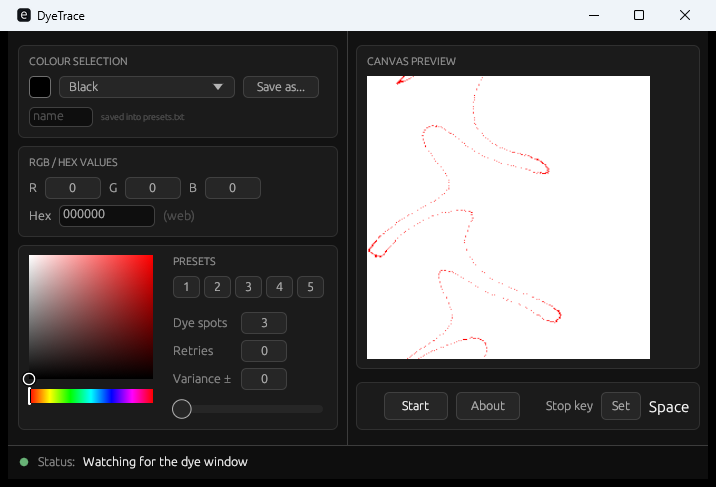
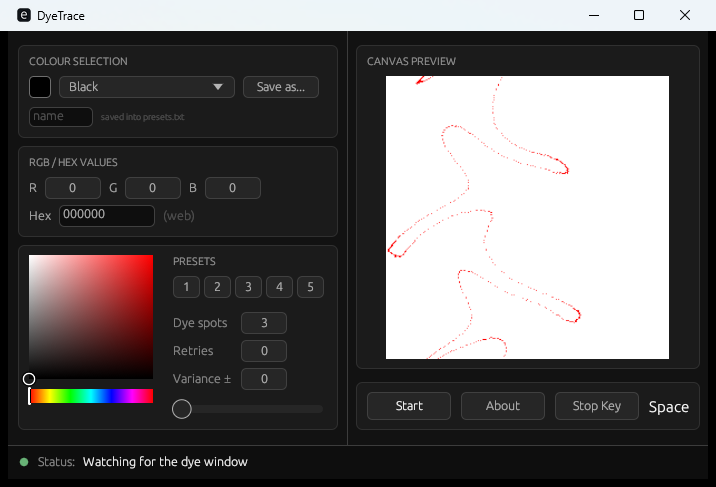
Button row even, and the canvas centred in its box
Start, About and the stop key are now one size and one distance apart, centred
as a group in the box, with the key that is set beside them.  Set is relabelled
Stop Key and the separate "Stop key" label is gone, so the row reads as three
buttons rather than two buttons and a field.

The buttons take whatever width the key name leaves - a long one such as
Backspace shortens them instead of pushing the row out of the box - and the row
has no item spacing of its own, so the gaps between the buttons are exactly the
gaps asked for.

The picture is placed in the middle of its box rather than against the left
edge: the box is wider than the square the left column leaves room for, and the
white canvas was flush left with the slack all on the right.

diff --git a/crates/ui/src/app.rs b/crates/ui/src/app.rs
@@ -47,8 +47,10 @@ const COLUMN_GAP: f32 = 12.0;
 const CARD_GAP: f32 = 8.0;
 /// The line a card's heading takes, so a box can be measured around it.
 const HEADING_ROOM: f32 = 26.0;
-/// The height of the button row, and of the box around it.
+/// The height of the button row, of the box around it, and the gap the buttons
+/// keep between each other.
 const BUTTON_ROW: f32 = 28.0;
+const BUTTON_GAP: f32 = 10.0;
 const BUTTONS_HEIGHT: f32 = BUTTON_ROW + 2.0 * 9.0 + 2.0;
 
 /// Run `add` inside a card, and hand back whatever it returned.
@@ -473,49 +475,65 @@ impl DyeTraceApp {
 
     }
 
-    /// Start, About, and the key that ends a run.
-    ///
-    /// Drawn right to left so the stop key sits against the right edge of the
-    /// box and Start at the left, whatever width the box has.
+    /// Start, About and the stop key: one size, one distance apart, with the key
+    /// that is set shown beside them.
     fn buttons(&mut self, ui: &mut egui::Ui) {
         let busy = self.worker.busy;
         let mut start = false;
         let mut about = false;
 
-        // The row is given its own height: without it the right-to-left layout
-        // hands the card all the space that is going, and the box grows to the
-        // bottom of the window.
+        let key = if self.recording {
+            "press a key".to_string()
+        } else {
+            self.stop_on.name().to_string()
+        };
+        let key_width = ui.fonts(|fonts| {
+            fonts
+                .layout_no_wrap(
+                    key.clone(),
+                    egui::FontId::proportional(15.0),
+                    Color32::PLACEHOLDER,
+                )
+                .size()
+                .x
+        });
+
+        // The buttons take what the key name leaves, so a long one such as
+        // Backspace shortens them instead of pushing the row out of the box.
+        let room = ui.available_width().max(200.0);
+        let width = ((room - 3.0 * BUTTON_GAP - key_width) / 3.0).clamp(56.0, 96.0);
+        let total = 3.0 * width + 3.0 * BUTTON_GAP + key_width;
+        let pad = ((room - total) * 0.5).max(0.0);
+
         let size = egui::vec2(ui.available_width(), BUTTON_ROW);
         ui.allocate_ui(size, |ui| {
-            ui.with_layout(egui::Layout::right_to_left(egui::Align::Center), |ui| {
-                let shown = if self.recording {
-                    "press a key".to_string()
-                } else {
-                    self.stop_on.name().to_string()
+            // The gaps are the ones added below, not egui's own as well.
+            ui.spacing_mut().item_spacing.x = 0.0;
+            ui.horizontal(|ui| {
+                ui.add_space(pad);
+
+                let button = |label: RichText| {
+                    egui::Button::new(label).min_size(egui::vec2(width, BUTTON_ROW))
                 };
-                ui.label(RichText::new(shown).strong().size(15.0));
-                if ui
-                    .add_sized([40.0, BUTTON_ROW], egui::Button::new("Set"))
-                    .clicked()
-                {
+
+                start = ui
+                    .add_enabled(
+                        !busy,
+                        button(RichText::new("Start").strong()),
+                    )
+                    .clicked();
+                ui.add_space(BUTTON_GAP);
+
+                about = ui.add_enabled(!busy, button(RichText::new("About"))).clicked();
+                ui.add_space(BUTTON_GAP);
+
+                if ui.add(button(RichText::new("Stop Key"))).clicked() {
                     self.recording = true;
                 }
-                ui.label(RichText::new("Stop key").color(Color32::from_gray(170)));
+                ui.add_space(BUTTON_GAP);
 
-                ui.add_space(18.0);
-
-                ui.add_enabled_ui(!busy, |ui| {
-                    about = ui
-                        .add_sized([64.0, BUTTON_ROW], egui::Button::new("About"))
-                        .clicked();
-                    start = ui
-                        .add_sized(
-                            [64.0, BUTTON_ROW],
-                            egui::Button::new(RichText::new("Start").strong()),
-                        )
-                        .clicked();
-                });
-        });
+                ui.label(RichText::new(key).strong().size(15.0));
+            });
         });
 
         if start {
@@ -601,8 +619,12 @@ impl DyeTraceApp {
             _ => None,
         };
 
-        let side = side.min(ui.available_width());
-        let (rect, _) = ui.allocate_exact_size(Vec2::splat(side), Sense::hover());
+        // The square sits in the middle of the box, however much wider the box is
+        // than the picture the left column left room for.
+        let width = ui.available_width();
+        let side = side.min(width);
+        let (outer, _) = ui.allocate_exact_size(Vec2::new(width, side), Sense::hover());
+        let rect = egui::Rect::from_center_size(outer.center(), Vec2::splat(side));
 
         if snapshot.is_none() {
             ui.painter().rect_filled(rect, 4.0, Color32::from_gray(24));
